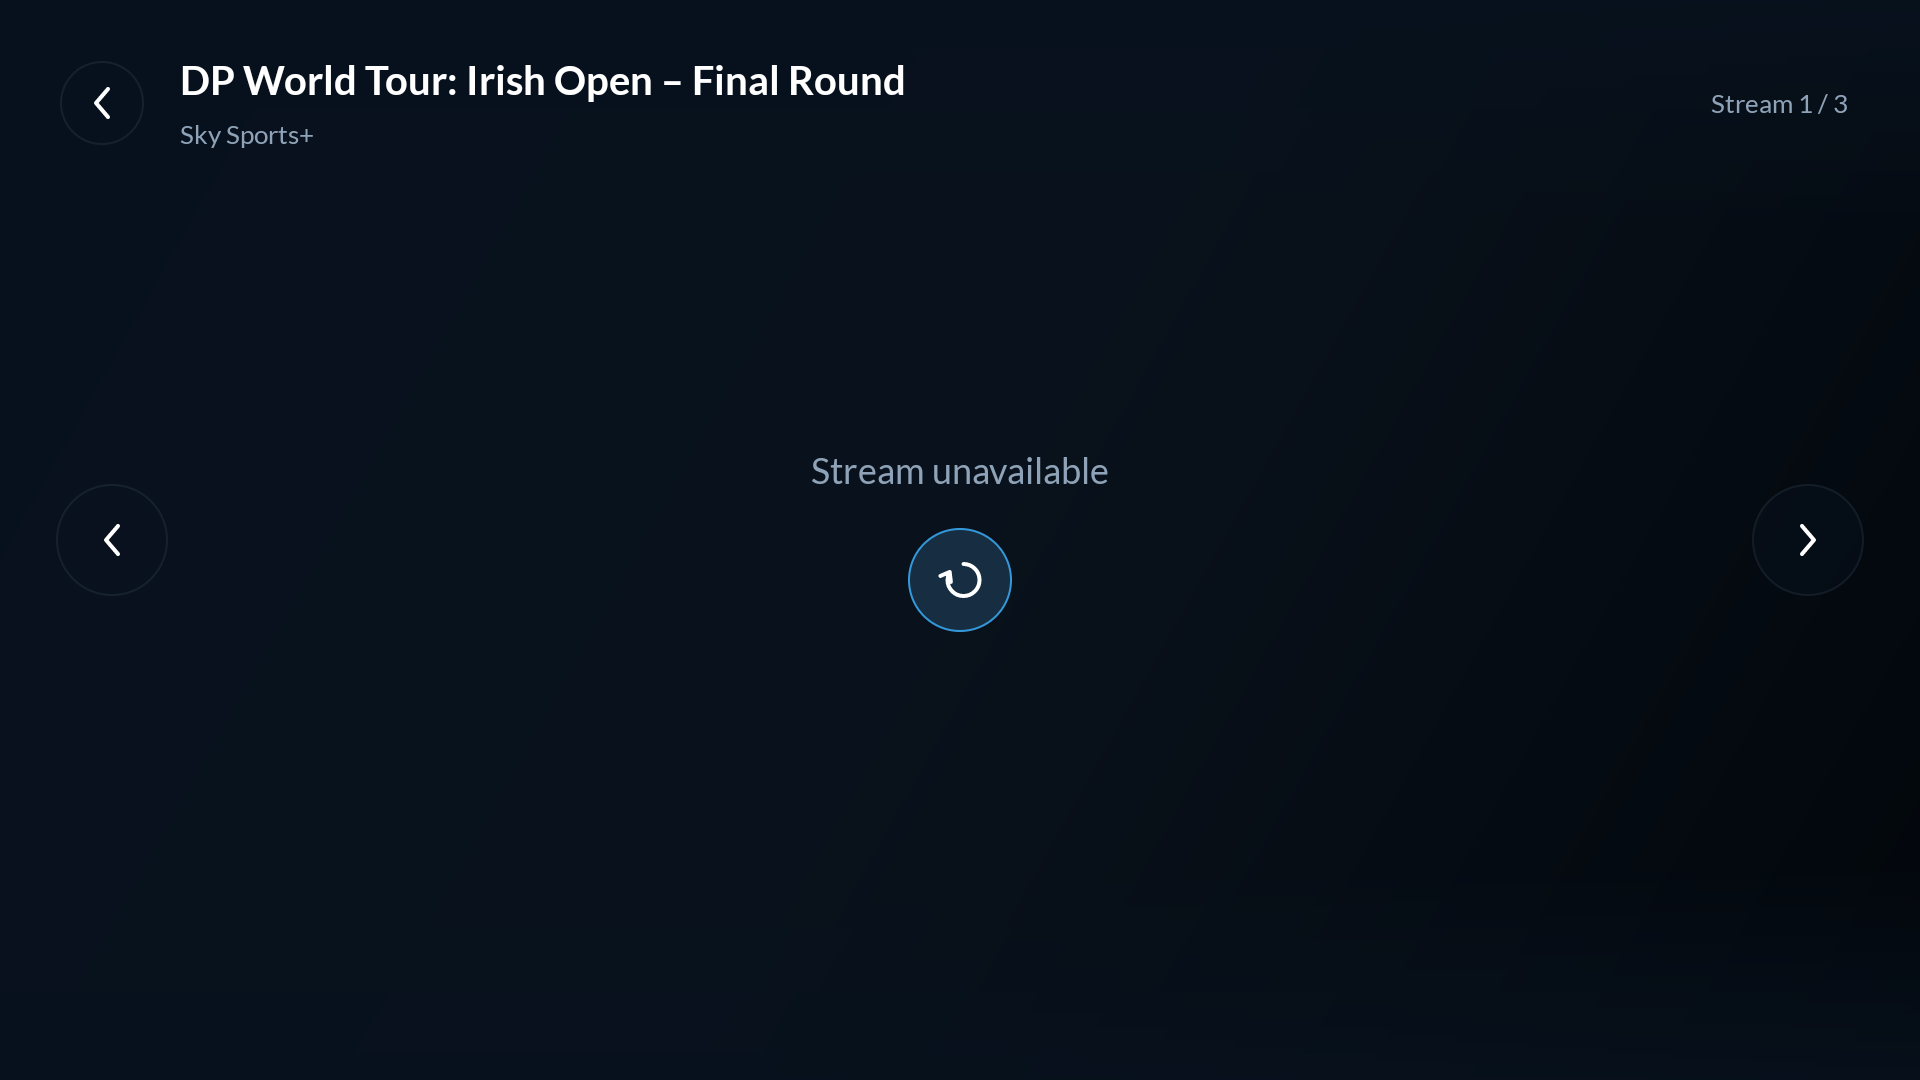
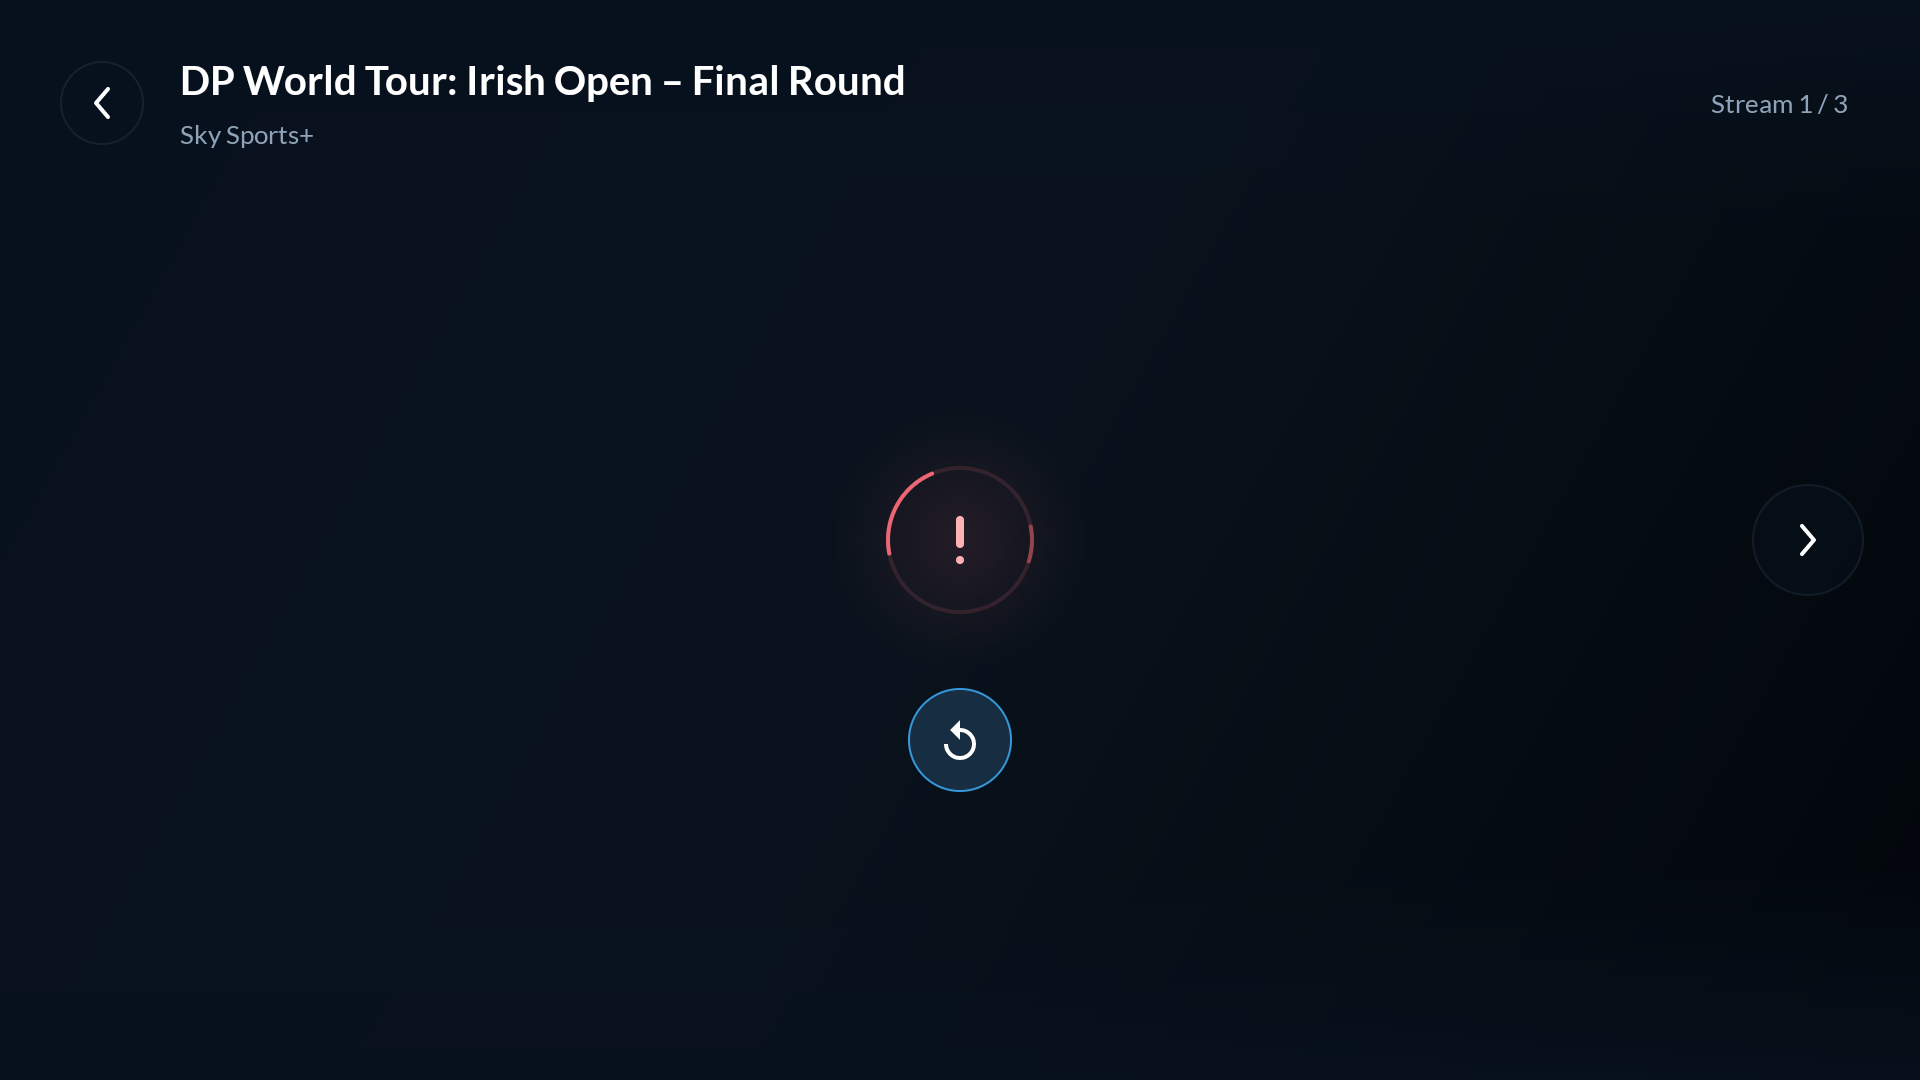
fix: refine stream errors and hide unavailable navigation

Changed region(s): [[0.4688, 0.6417, 0.5312, 0.7333], [0.4688, 0.4889, 0.5312, 0.5806], [0.4062, 0.4278, 0.5938, 0.4583]]

diff --git a/app/src/main/java/fr/bonamy/sports/PlayerChrome.kt b/app/src/main/java/fr/bonamy/sports/PlayerChrome.kt
@@ -67,9 +67,9 @@ internal class PlayerChrome(
         addView(next, LayoutParams(context.dp(56), context.dp(56), Gravity.END or Gravity.CENTER_VERTICAL)
             .apply { rightMargin = context.dp(28) })
         addView(connecting, LayoutParams(context.dp(140), context.dp(140), Gravity.CENTER))
-        failure.addSpaced(context.label("Stream unavailable", 18f, MUTED).apply { gravity = Gravity.CENTER }, bottom = 18)
         failure.addView(retry, LinearLayout.LayoutParams(context.dp(52), context.dp(52)))
         addView(failure, LayoutParams(context.dp(320), -2, Gravity.CENTER))
+        failure.translationY = context.dp(100).toFloat()
         showConnecting()
     }
 
@@ -80,12 +80,22 @@ internal class PlayerChrome(
 
     fun setStreams(index: Int, count: Int) {
         counter.text = if (count > 0) "Stream ${index + 1} / $count" else "Stream ${index + 1}"
-        previous.isEnabled = count > 1; previous.isFocusable = count > 1
-        next.isEnabled = count > 1; next.isFocusable = count > 1
+        previous.isEnabled = index > 0 && index < count
+        next.isEnabled = index >= 0 && index < count - 1
+        previous.isFocusable = previous.isEnabled
+        next.isFocusable = next.isEnabled
+        updateArrowVisibility()
+    }
+
+    private fun updateArrowVisibility() {
+        listOf(previous, next).forEach { arrow ->
+            arrow.visibility = if (!arrow.isEnabled) GONE else if (controlsVisible) VISIBLE else INVISIBLE
+        }
     }
 
     fun showConnecting() {
         mode = Mode.CONNECTING
+        connecting.isError = false
         backdrop.visibility = VISIBLE; connecting.visibility = VISIBLE; failure.visibility = GONE
         transport.visibility = GONE
         reveal()
@@ -104,7 +114,8 @@ internal class PlayerChrome(
 
     fun showUnavailable() {
         mode = Mode.UNAVAILABLE
-        backdrop.visibility = VISIBLE; connecting.visibility = GONE; failure.visibility = VISIBLE
+        connecting.isError = true
+        backdrop.visibility = VISIBLE; connecting.visibility = VISIBLE; failure.visibility = VISIBLE
         transport.visibility = GONE
         reveal()
         retry.requestFocus()
@@ -114,6 +125,7 @@ internal class PlayerChrome(
         removeCallbacks(hideControls)
         controlsVisible = true
         controls.forEach { it.animate().cancel(); it.visibility = VISIBLE; it.alpha = 1f }
+        updateArrowVisibility()
         if (mode == Mode.PLAYING) postDelayed(hideControls, 3000)
     }
 
@@ -169,6 +181,13 @@ internal class PlayerChrome(
 private class ConnectingView(context: Context) : View(context) {
     private val paint = Paint(Paint.ANTI_ALIAS_FLAG)
     private var phase = 0f
+    var isError = false
+        set(value) {
+            field = value
+            contentDescription = if (value) "Stream unavailable" else "Connecting stream"
+            motion.duration = if (value) 2800 else 1800
+            invalidate()
+        }
     private val motion = ValueAnimator.ofFloat(0f, 1f).apply {
         duration = 1800; repeatCount = ValueAnimator.INFINITE; interpolator = LinearInterpolator()
         addUpdateListener { phase = it.animatedValue as Float; invalidate() }
@@ -178,17 +197,26 @@ private class ConnectingView(context: Context) : View(context) {
 
     override fun onDraw(canvas: Canvas) {
         val x = width / 2f; val y = height / 2f; val radius = context.dp(36).toFloat()
+        val accent = if (isError) 0xFFED6673.toInt() else ACCENT
+        val pulse = .5f + .5f * sin(phase * Math.PI.toFloat() * 2)
         paint.style = Paint.Style.FILL
-        paint.shader = RadialGradient(x, y, radius * 1.8f, intArrayOf(0x303498DA, Color.TRANSPARENT), null, Shader.TileMode.CLAMP)
+        val glow = ((if (isError) 30 + (pulse * 24).toInt() else 48) shl 24) or (accent and 0xFFFFFF)
+        paint.shader = RadialGradient(x, y, radius * 1.8f, intArrayOf(glow, Color.TRANSPARENT), null, Shader.TileMode.CLAMP)
         canvas.drawCircle(x, y, radius * 1.8f, paint)
         paint.shader = null; paint.style = Paint.Style.STROKE; paint.strokeWidth = context.dp(2).toFloat(); paint.strokeCap = Paint.Cap.ROUND
-        paint.color = 0x253498DA
+        paint.color = 0x25000000 or (accent and 0xFFFFFF)
         canvas.drawCircle(x, y, radius, paint)
-        paint.color = ACCENT
+        paint.color = accent
         canvas.drawArc(x - radius, y - radius, x + radius, y + radius, phase * 360f - 90f, 78f, false, paint)
-        paint.color = 0x804FBAFF.toInt()
+        paint.color = if (isError) 0x80ED6673.toInt() else 0x804FBAFF.toInt()
         canvas.drawArc(x - radius, y - radius, x + radius, y + radius, phase * 360f + 90f, 28f, false, paint)
-        paint.strokeWidth = context.dp(4).toFloat(); paint.color = 0xFFD6EEFF.toInt()
+        paint.strokeWidth = context.dp(4).toFloat()
+        paint.color = if (isError) 0xFFFFB1B8.toInt() else 0xFFD6EEFF.toInt()
+        if (isError) {
+            canvas.drawLine(x, y - context.dp(10), x, y + context.dp(2), paint)
+            canvas.drawPoint(x, y + context.dp(10), paint)
+            return
+        }
         repeat(3) { index ->
             val height = context.dp(5) + context.dp(7) * (.5f + .5f * sin((phase * Math.PI * 2 + index * .9).toFloat()))
             val barX = x + (index - 1) * context.dp(9)

diff --git a/app/src/main/java/fr/bonamy/sports/PlayerControlButton.kt b/app/src/main/java/fr/bonamy/sports/PlayerControlButton.kt
@@ -6,8 +6,6 @@ import android.graphics.drawable.GradientDrawable
 import android.graphics.drawable.StateListDrawable
 import android.view.View
 import android.view.accessibility.AccessibilityNodeInfo
-import kotlin.math.cos
-import kotlin.math.sin
 
 /** Circular controls with icons centered by geometry rather than font metrics. */
 internal class PlayerControlButton(context: Context, initialIcon: Icon, description: String) : View(context) {
@@ -53,19 +51,19 @@ internal class PlayerControlButton(context: Context, initialIcon: Icon, descript
                 canvas.drawPath(Path().apply { moveTo(-6f, -8f); lineTo(6f, 0f); lineTo(-6f, 8f); close() }, paint)
             }
             Icon.RETRY -> {
-                val angle = Math.toRadians(210.0)
-                val x = (8 * cos(angle)).toFloat(); val y = (8 * sin(angle)).toFloat()
-                val tx = -sin(angle).toFloat(); val ty = cos(angle).toFloat()
+                paint.style = Paint.Style.FILL
                 val path = Path().apply {
-                    addArc(RectF(-8f, -8f, 8f, 8f), -90f, 300f)
-                    moveTo(x - tx * 4 - ty * 3, y - ty * 4 + tx * 3)
-                    lineTo(x, y)
-                    lineTo(x - tx * 4 + ty * 3, y - ty * 4 - tx * 3)
+                    moveTo(12f, 5f)
+                    lineTo(12f, 1f)
+                    lineTo(7f, 6f)
+                    lineTo(12f, 11f)
+                    lineTo(12f, 7f)
+                    arcTo(RectF(6f, 7f, 18f, 19f), -90f, 270f)
+                    lineTo(4f, 13f)
+                    arcTo(RectF(4f, 5f, 20f, 21f), 180f, -270f)
+                    close()
+                    offset(-12f, -11f)
                 }
-                val bounds = RectF()
-                @Suppress("DEPRECATION")
-                path.computeBounds(bounds, true)
-                path.offset(-bounds.centerX(), -bounds.centerY())
                 canvas.drawPath(path, paint)
             }
         }

diff --git a/app/src/debug/java/fr/bonamy/sports/PlayerPreviewActivity.kt b/app/src/debug/java/fr/bonamy/sports/PlayerPreviewActivity.kt
@@ -19,7 +19,7 @@ class PlayerPreviewActivity : Activity() {
         window.decorView.systemUiVisibility = View.SYSTEM_UI_FLAG_FULLSCREEN or View.SYSTEM_UI_FLAG_HIDE_NAVIGATION or View.SYSTEM_UI_FLAG_IMMERSIVE_STICKY
         val count = intent.getIntExtra("streams", 3).coerceAtLeast(1)
         fun move(direction: Int) {
-            index = Math.floorMod(index + direction, count)
+            index = (index + direction).coerceIn(0, count - 1)
             chrome.setStreams(index, count)
         }
         chrome = PlayerChrome(this, "DP World Tour: Irish Open – Final Round", "Sky Sports+",

diff --git a/app/src/main/java/fr/bonamy/sports/MainActivity.kt b/app/src/main/java/fr/bonamy/sports/MainActivity.kt
@@ -419,8 +419,9 @@ class MainActivity : ComponentActivity() {
     }
 
     private fun changeStream(direction: Int) {
-        if (streamOptions.size < 2) return
-        streamIndex = Math.floorMod(streamIndex + direction, streamOptions.size)
+        val target = streamIndex + direction
+        if (target !in streamOptions.indices) return
+        streamIndex = target
         retries = 0
         updateStreamControls()
         resolveAndPlay()

diff --git a/README.md b/README.md
@@ -39,10 +39,10 @@ Both are ignored by Git. Preserve both for future in-place updates.
   icon as fallback. Choose a channel; named numbered alternatives are grouped together.
   Generic provider links use their channel page names derived from the URL.
 - Player: starts Stream 1 immediately, discovers alternatives in the background.
-  Left/Right switches streams and wraps at either end. Up focuses Back; Down
+  Left/Right switches streams; arrows appear only when a stream exists in that direction. Up focuses Back; Down
   focuses pause/play or retry. OK activates the focused control, or toggles
   playback when controls are hidden. Controls fade after three seconds of playback.
-  Connecting uses a quiet animation; unavailable streams show a compact retry control.
+  Connecting uses a quiet blue animation; unavailable streams use a red variation with retry.
 - Back: player → channels → schedule → sport home → exit.
   Returning to a schedule restores event focus and scroll position.
 
@@ -120,5 +120,5 @@ adb shell am start -n fr.bonamy.sports/.PlayerPreviewActivity --es state unavail
 States: `connecting`, `playing`, `paused`, `unavailable`; optional `--ei streams 1`
 checks a channel without alternatives. This exercises the real player controls
 without depending on provider availability. Emulator checks cover circular button
-bounds and centered icons, retry, stream wraparound, control fading, pause, and
-disabled arrows for single-stream channels. It does not verify media playback.
+bounds and centered icons, retry, stream boundaries, control fading, pause, and
+hidden arrows for single-stream channels. It does not verify media playback.
